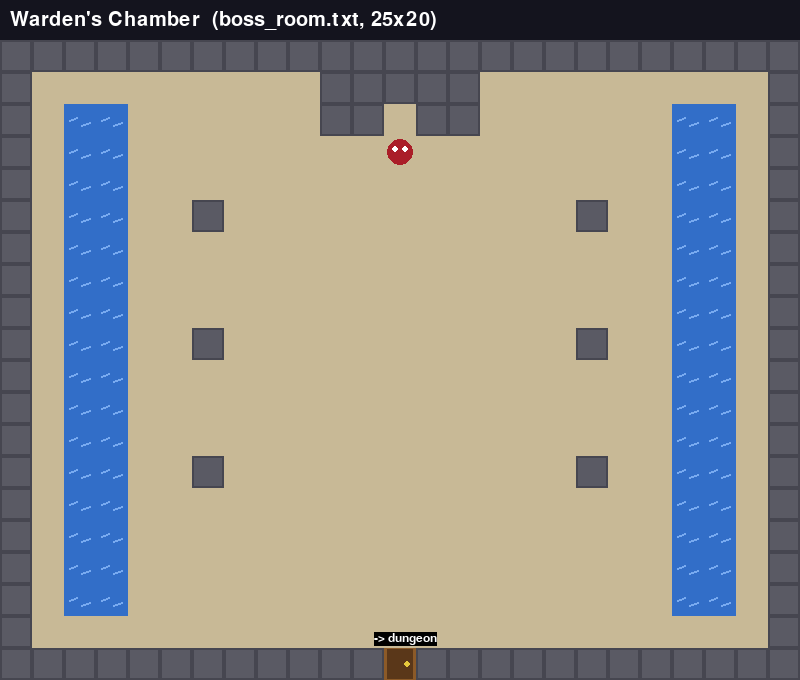
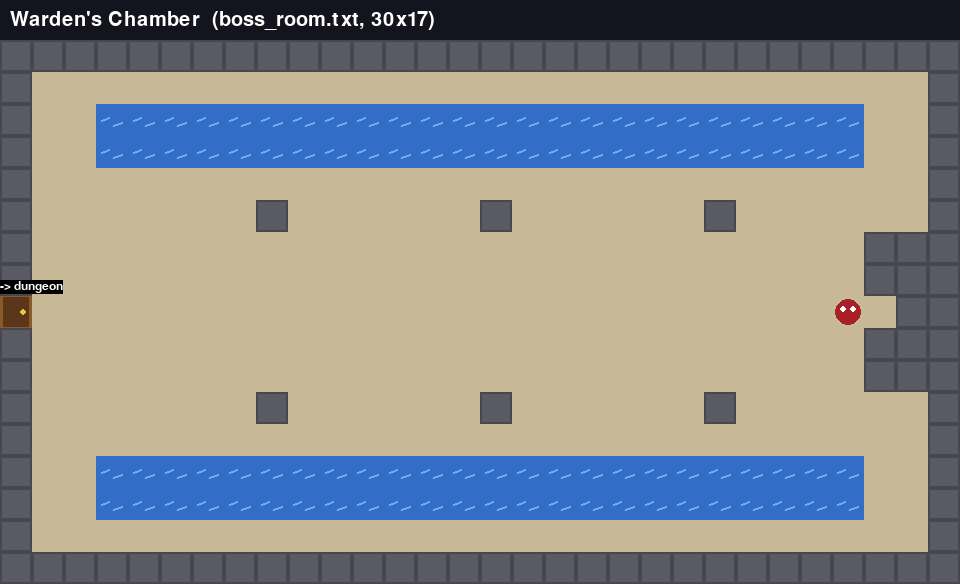
Align doors spatially: boss room entered from west; validator checks door directions

diff --git a/validate_maps.py b/validate_maps.py
@@ -6,7 +6,9 @@ Checks:
   * grid is rectangular and only uses legend characters
   * every 'D' has a JSON door entry and every door entry sits on a 'D'
   * door targets exist; spawns are in bounds, walkable and not a door
-  * every door has a reverse door, and the spawn is right next to it
+  * every door has a reverse door, and the spawn is right next to it (inward side)
+  * doors line up spatially: a door on the north side of one map leads to a
+    door on the south side of the next (east <-> west, etc.)
   * NPC / boss coordinates match 'N' / 'B' tiles (and vice versa)
   * exactly one 'P', and it is in the start map
   * every door, save point, boss, chest and NPC can actually be reached
@@ -45,6 +47,29 @@ def tiles_of(rows, char):
 
 def walkable(rows, x, y):
     return 0 <= y < len(rows) and 0 <= x < len(rows[0]) and rows[y][x] not in SOLID
+
+
+# Direction you walk to go THROUGH a door on that side, as (dx, dy).
+SIDES = {"north": (0, -1), "south": (0, 1), "west": (-1, 0), "east": (1, 0)}
+OPPOSITE = {"north": "south", "south": "north", "west": "east", "east": "west"}
+
+
+def door_side(rows, x, y):
+    """Which wall a door is on, judged by its single open (walkable) neighbour.
+
+    A door with floor below it is on the north wall (you walk north to leave),
+    floor to its left means the east wall, and so on. Returns None if the door
+    does not have exactly one open neighbour (i.e. it isn't set into a wall).
+    """
+    open_sides = [side for side, (dx, dy) in SIDES.items()
+                  if walkable(rows, x - dx, y - dy) and rows[y - dy][x - dx] != "D"]
+    return open_sides[0] if len(open_sides) == 1 else None
+
+
+def inward_tile(rows, x, y):
+    """The walkable tile just inside a door (where players should arrive)."""
+    dx, dy = SIDES[door_side(rows, x, y)]
+    return (x - dx, y - dy)
 
 
 def adjacent(a, b):
@@ -99,12 +124,26 @@ def validate():
                 continue
             if trows[spawn[1]][spawn[0]] == "D":
                 err(f"door {(d['x'], d['y'])} spawn {spawn} in '{tgt}' is ON a door (player would bounce)")
+            side = door_side(rows, d["x"], d["y"])
+            if side is None:
+                err(f"door {(d['x'], d['y'])} must sit in a wall with exactly one open side")
+                continue
             back = [b for b in tmeta.get("doors", []) if b["target_map"] == name
-                    and adjacent((b["x"], b["y"]), spawn)]
+                    and trows[b["y"]][b["x"]] == "D" and door_side(trows, b["x"], b["y"])
+                    and inward_tile(trows, b["x"], b["y"]) == spawn]
             if not back:
-                err(f"door {(d['x'], d['y'])} -> '{tgt}': no return door next to spawn {spawn}")
-            elif not any(adjacent((b["spawn_x"], b["spawn_y"]), (d["x"], d["y"])) for b in back):
-                err(f"door {(d['x'], d['y'])} -> '{tgt}': return door does not spawn next to this door")
+                err(f"door {(d['x'], d['y'])} -> '{tgt}': spawn {spawn} is not the tile just "
+                    f"inside a door that leads back to '{name}'")
+                continue
+            b = back[0]
+            if (b["spawn_x"], b["spawn_y"]) != inward_tile(rows, d["x"], d["y"]):
+                err(f"door {(d['x'], d['y'])} -> '{tgt}': return door {(b['x'], b['y'])} should "
+                    f"spawn at {inward_tile(rows, d['x'], d['y'])} (just inside this door)")
+            b_side = door_side(trows, b["x"], b["y"])
+            if b_side != OPPOSITE[side]:
+                err(f"door {(d['x'], d['y'])} is on the {side} side, so its return door in "
+                    f"'{tgt}' {(b['x'], b['y'])} must be on the {OPPOSITE[side]} side "
+                    f"(it is on the {b_side} side)")
 
         # NPCs and boss
         n_tiles = tiles_of(rows, "N")
@@ -188,8 +227,16 @@ def main():
     if errors:
         print(f"\n{len(errors)} error(s) found.")
         sys.exit(1)
-    names = sorted(load_all())
-    print(f"All {len(names)} maps OK: {', '.join(names)}")
+    maps = load_all()
+    print(f"All {len(maps)} maps OK: {', '.join(sorted(maps))}")
+    print("Door directions (the way you walk through each door):")
+    for name, (rows, meta) in sorted(maps.items()):
+        for d in meta["doors"]:
+            t_rows = maps[d["target_map"]][0]
+            back = [b for b in maps[d["target_map"]][1]["doors"]
+                    if inward_tile(t_rows, b["x"], b["y"]) == (d["spawn_x"], d["spawn_y"])][0]
+            print(f"  {name} {d['x'], d['y']} go {door_side(rows, d['x'], d['y'])} -> "
+                  f"arrive at {d['target_map']} {back['x'], back['y']} (its return door goes {door_side(t_rows, back['x'], back['y'])})")
 
 
 if __name__ == "__main__":

diff --git a/smoke_test.py b/smoke_test.py
@@ -62,7 +62,7 @@ def main():
     game = Game()
     print("start:", game.current.name, game.current.player_start)
     route = [("town", (9, 11)), ("house", (10, 14)), ("town", (19, 1)),
-             ("dungeon", (38, 21)), ("boss_room", (12, 19)), ("dungeon", (7, 29))]
+             ("dungeon", (38, 21)), ("boss_room", (0, 8)), ("dungeon", (7, 29))]
     for map_name, door_xy in route:
         assert game.current.name == map_name, game.current.name
         walk_through_door(game, door_xy)
@@ -86,8 +86,8 @@ def main():
     game.step(0, -1)
     assert ("dungeon", 36, 16) in game.opened_chests
     game.current = game.get_map("boss_room")
-    game.player.x, game.player.y = 12, 4
-    game.step(0, -1)
+    game.player.x, game.player.y = 25, 8
+    game.step(1, 0)
     assert "BOSS" in game.message
     pygame.quit()
     print("SMOKE TEST PASSED")

diff --git a/README.md b/README.md
@@ -27,9 +27,12 @@ trigger a placeholder "Encounter!" message. Messages are also printed to the ter
 1. **Willowbrook Village** (`town`) — starting town: houses, a pond, 4 NPCs, a save point, and grass outskirts with encounters. Your house is on the left; the cave mouth is at the top.
 2. **Your House** (`house`) — interior with Mom, a bedroom with a save point by the bed, and a chest.
 3. **Mossy Caverns** (`dungeon`) — 3 rooms: entrance hall → flooded cavern (cross the river at the single bridge in the top) → switchback vault (zig-zag around two walls) with a chest, a save point and the door to the boss.
-4. **Warden's Chamber** (`boss_room`) — pillared hall between two water channels; the boss waits in the throne alcove.
+4. **Warden's Chamber** (`boss_room`) — long east–west hall: you enter from the west door, walk between two water channels and rows of pillars, and the boss waits in the throne alcove in the east wall.
 
-Route: town ↔ house, town ↔ dungeon ↔ boss_room. Every door works both ways.
+Route: town ↔ house, town ↔ dungeon ↔ boss_room. Every door works both ways, and doors line up
+spatially: leave town northwards through the cave mouth → arrive at the dungeon's south entrance;
+leave the dungeon through its east door → arrive at the boss room's west door; the house's front
+door (north from the street) opens onto the house's south wall. `validate_maps.py` enforces this.
 
 ## Files
 
@@ -67,8 +70,10 @@ Solid (can't walk onto): `# N T ~ C`. Full details in `maps/README.md`.
      "boss": null
    }
    ```
-   The spawn is where you appear in the *other* map — next to its door, not on it.
+   The spawn is where you appear in the *other* map — the tile just inside its door, not on it.
 3. Add the return trip: put a `D` in the other map (replace a wall/floor tile) and add a matching
-   door entry there with `target_map: "cellar"` and a spawn next to the cellar's `D`.
+   door entry there with `target_map: "cellar"` and a spawn just inside the cellar's `D`.
+   Directions must match: if you walk north into the house's door, the cellar's exit must be on
+   its south wall (so you walk south to go back).
 4. Run `python validate_maps.py` — it tells you exactly what's missing or mismatched.
 5. Run `python view_map.py cellar` to look at it, then `python game.py` to walk there.

diff --git a/maps/README.md b/maps/README.md
@@ -39,7 +39,11 @@ No other characters are used.
 
 * `display_name` is **optional** (extra, not in the original spec): the name shown on screen. Defaults to the file name.
 * `doors`: every `D` in the grid has exactly one entry and vice versa. `spawn_x/spawn_y` is where you
-  appear in `target_map` — a walkable tile right **next to** that map's return door (never on it).
+  appear in `target_map` — the walkable tile just **inside** that map's return door (never on it).
+* Doors must line up spatially. A door's direction is the way you walk through it (a `D` with floor
+  below it is walked through going north). If you leave one map going north, you arrive in the next
+  map at a door you'd walk through going south to come back (north ↔ south, east ↔ west).
+  Each `D` sits in a wall with exactly one open neighbour.
 * `encounters.rate` is the chance (0–1) per step on `g`. Use `{"rate": 0.0, "enemy_pool": []}` for safe maps.
 * `boss`: `{"x", "y", "enemy_id"}` matching the single `B` tile, or `null`.
 
@@ -47,7 +51,7 @@ No other characters are used.
 
 | File | Name | Size | Connections |
 |------|------|------|-------------|
-| `town` | Willowbrook Village | 40x30 | house door (9,11) ↔ house; cave mouth (19,1) ↔ dungeon |
-| `house` | Your House | 20x15 | front door (10,14) ↔ town |
-| `dungeon` | Mossy Caverns (3 rooms) | 40x30 | exit (7,29) ↔ town; sealed door (38,21) ↔ boss_room |
-| `boss_room` | Warden's Chamber | 25x20 | door (12,19) ↔ dungeon |
+| `town` | Willowbrook Village | 40x30 | house door (9,11), go north ↔ house; cave mouth (19,1), go north ↔ dungeon |
+| `house` | Your House | 20x15 | front door (10,14) on south wall, go south ↔ town |
+| `dungeon` | Mossy Caverns (3 rooms) | 40x30 | exit (7,29) on south wall ↔ town; sealed door (38,21) on east wall ↔ boss_room |
+| `boss_room` | Warden's Chamber | 30x17 | door (0,8) on west wall ↔ dungeon; throne/boss on the east side |
